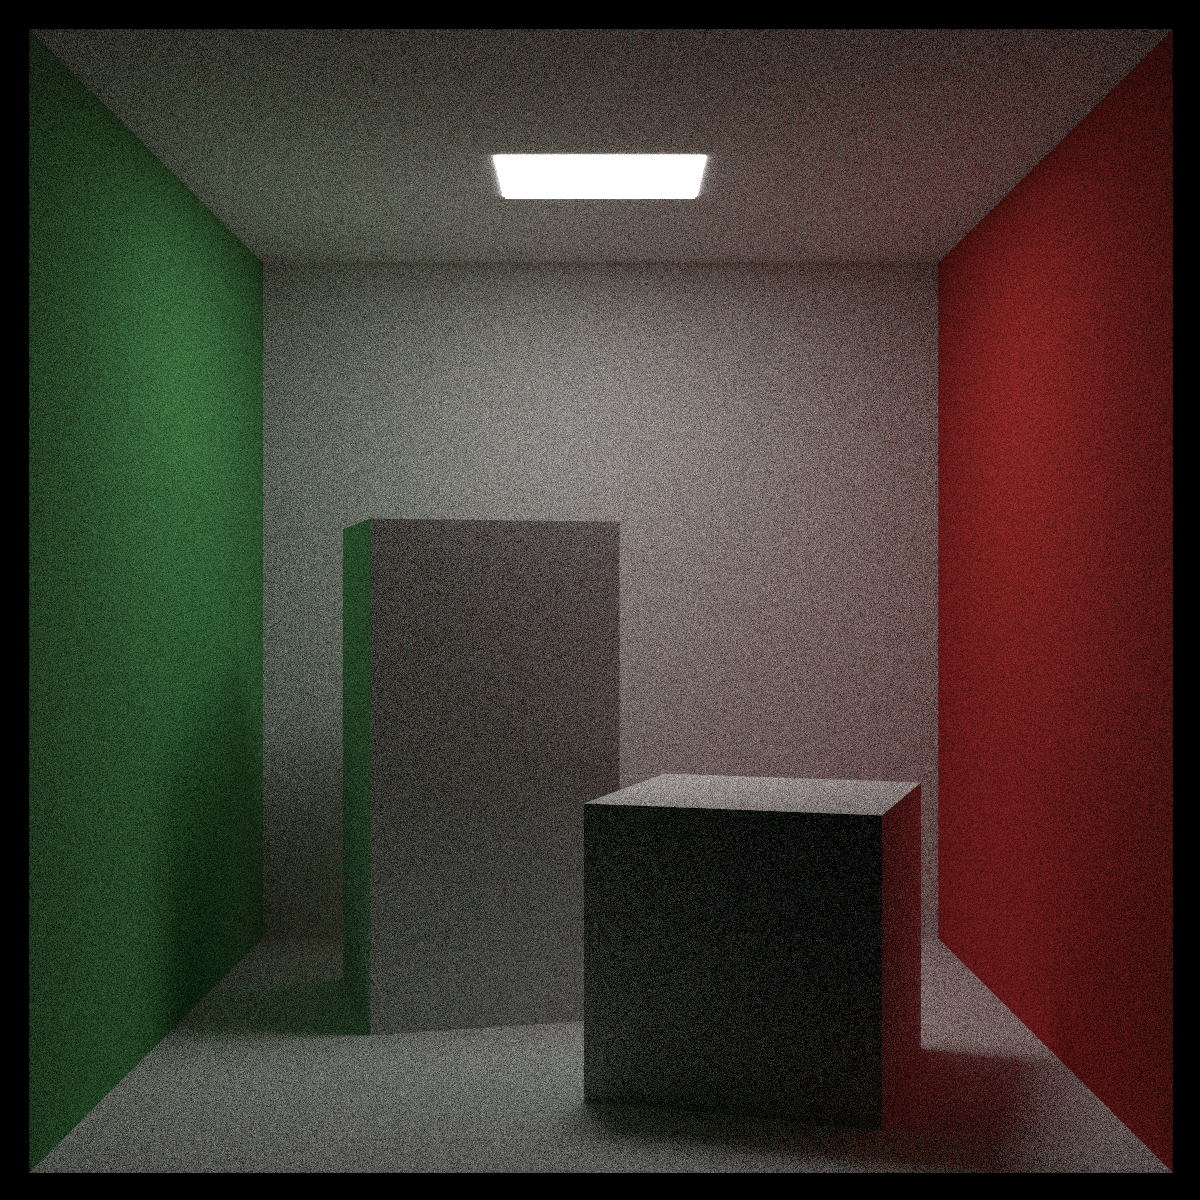
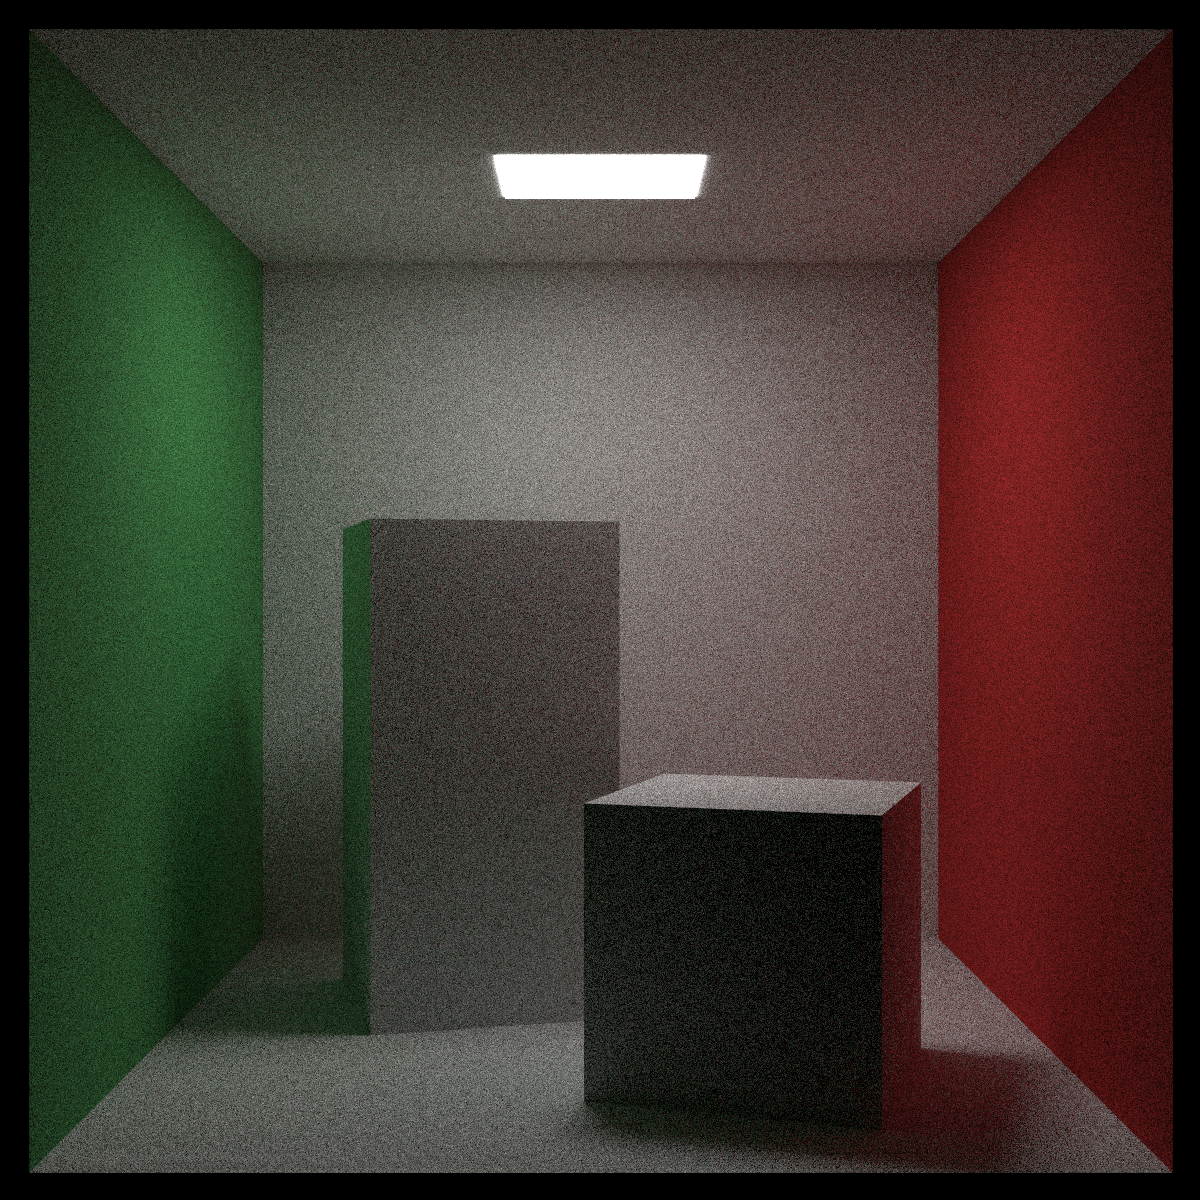
Rendered scenes and updated README

Changed region(s): [[0.0308, 0.0308, 0.9867, 0.9867]]

diff --git a/src/main.cpp b/src/main.cpp
@@ -59,14 +59,17 @@ void bouncingSpheres() {
 	auto material3 = std::make_shared<Metal>(Color(0.7f, 0.6f, 0.5f), 0.0f);
 	world.add(std::make_shared<Sphere>(Point3(4.0f, 1.0f, 0.0f), 1.0f, material3));
 
+#define useBVH 1
+#if useBVH
 	world = HittableList(std::make_shared<BVHNode>(world));
+#endif
 
 	Camera camera;
 
 	camera.aspectRatio = 16.0f / 9.0f;
-	camera.imageWidth = 400;
-	camera.samplesPerPixel = 100;
-	camera.maxDepth = 10;
+	camera.imageWidth = 1200;
+	camera.samplesPerPixel = 500;
+	camera.maxDepth = 50;
 	camera.background = Color(0.7f, 0.8f, 1.0f);
 
 	camera.vFov = 20.0f;

diff --git a/README.md b/README.md
@@ -5,26 +5,51 @@ A software raytracing engine built in native C++ for rendering 3D scenes. This p
 ## 📝 Features
 
 - Utilizes ray-object intersections, shading techniques, antialiasing, gamma correction, texture mapping, and more
-- Supports diffuse, metal, and dielectric materials, simulating accurate light reflection, refraction, and scattering
+- Supports diffuse, metal, dielectric, and emissive materials, simulating accurate light reflection, refraction, and scattering
 - Includes lighting objects and a positionable virtual camera with defocus blur, motion blur, and customizable dimensions
-- Utilizes a bounding volume hierarchy to improve performance (6.6x performance speedup, 85% reduced render times)
+- Implements a bounding volume hierarchy to accelerate ray-world intersections (4.6x speedup) and multithreading using a custom thread pool to further improve performance (16x speedup), optimizing performance by 98.6%
 - Additional features in progress...
 
 ## 🔍 What I Learned
 
-- Programming in C++, covering syntax, conventions, the standard library, and specific C++ features
+- Programming in C++, covering syntax, conventions, the standard library, multithreaded programming, and specific C++ features
 - Foundational concepts in computer graphics applied through raytracing
 - The mathematical foundations behind ray tracing, including linear algebra, geometry, and optics
-- Setting up build systems for C++ projects, including CMake and Visual Studio
+- Setting up build systems for C++ projects, including CMake and Visual Studio, and importing external libraries
+
+## 🛠 Build and Run
+
+### Build with CMake
+
+1. Make sure [CMake](https://cmake.org/) is installed on your local machine
+2. Clone the repository to your local machine
+3. Run the following instructions:
+
+```shell
+mkdir build
+cd build
+cmake ..
+```
+
+### Running the Program
+
+A collection of sample scenes are provided in main.cpp showing off various features of the raytracer. Rendering parameters can be modified in the functions associated with each scene.
+
+```shell
+./Raytracer <scene>
+# Example
+./Raytracer 5
+```
 
 ## 🖼 Results
 
 ### Sphere Scene
 
-![Sphere Scene](./images/sphere_scene.png)
+![Sphere Scene](./images/bouncing_spheres.png)
 
-- 532 spheres with random positions and materials, including metal and glass balls
+- 532 spheres with random positions, materials, and motions
 - 1200x675 pixels, 500 sampled rays per pixel, 50 ray bounce limit
+- Rendered in 282 seconds
 
 ### Cornell Box
 
@@ -32,6 +57,7 @@ A software raytracing engine built in native C++ for rendering 3D scenes. This p
 
 - Bounce lighting from colored quads on transformed box instances
 - 1200x1200 pixels, 500 sampled rays per pixel, 50 ray bounce limit
+- Rendered in 1015 seconds
 
 ## 📚 Reference
 
